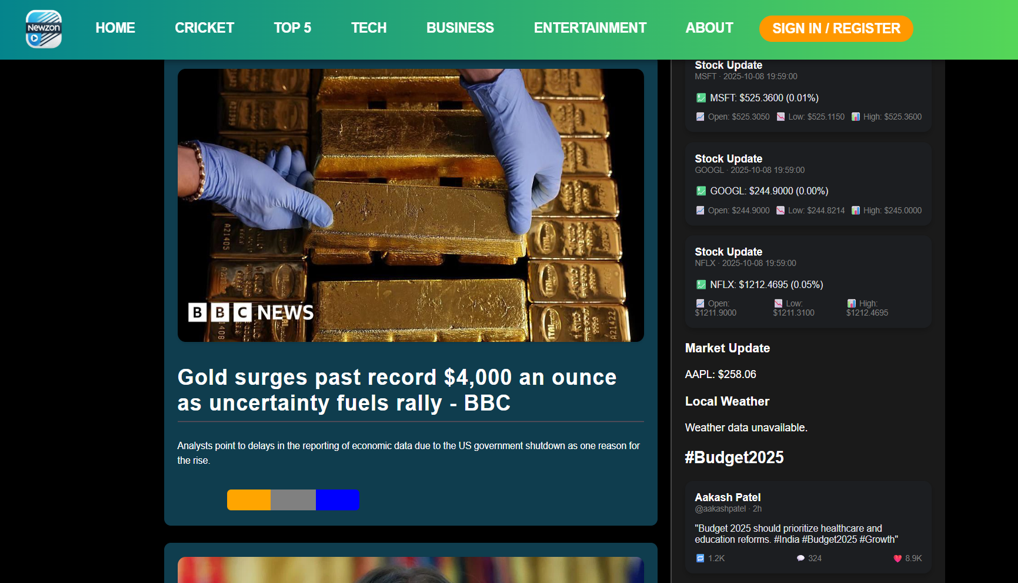
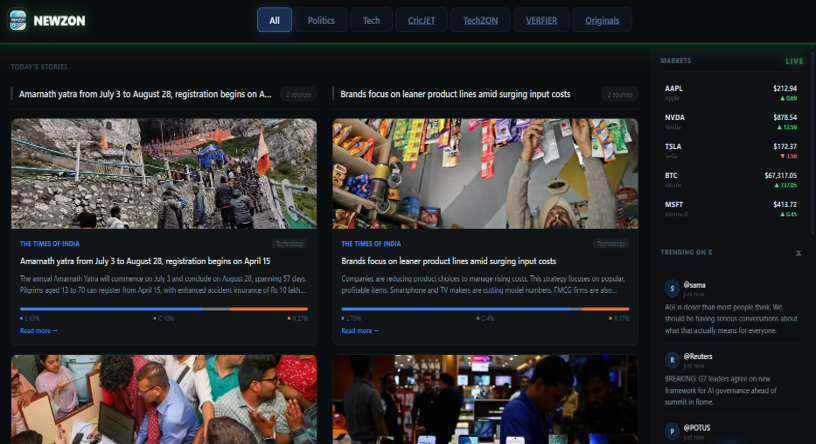
Update README with project overview and website previews

diff --git a/README.md b/README.md
@@ -65,8 +65,6 @@ and frontend implementation for reproducibility and review.
 
 ---
 
----
-
 ## Website Preview
 
 The following screenshots demonstrate the user interface and major workflows
@@ -80,7 +78,7 @@ of the NEWZON platform.
 
 ---
 
-### Article Analysis
+### Fake News Analysis
 
 <p align="center">
   <img src="images/analysis.png" alt="Article Analysis" width="900"/>
@@ -96,10 +94,10 @@ of the NEWZON platform.
 
 ---
 
-### News Details
+### Video Summarizer
 
 <p align="center">
-  <img src="images/article.png" alt="News Details" width="900"/>
+  <img src="images/image.png" alt="News Details" width="900"/>
 </p>
 
 ---
@@ -107,5 +105,5 @@ of the NEWZON platform.
 ### AI Reel Module (Experimental)
 
 <p align="center">
-  <img src="images/reels.png" alt="AI Reel Module" width="900"/>
+  <img src="images/image.png" alt="AI Reel Module" width="900"/>
 </p>
